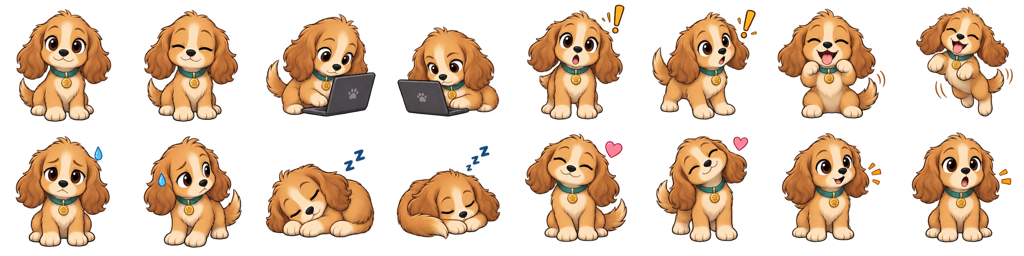
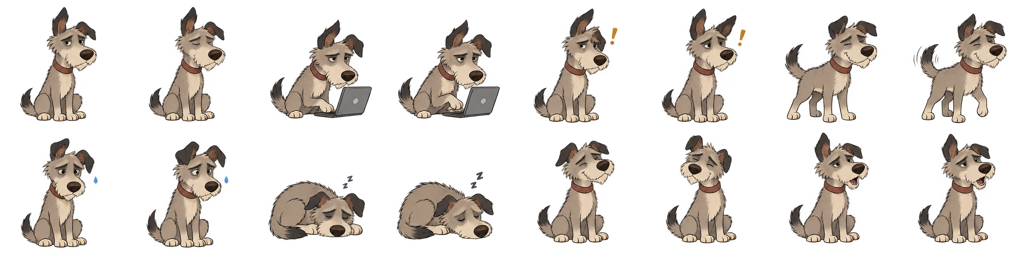
Buddy: a new Biscuit, and each character talks like itself
Biscuit's art is redrawn: a scruffy, dry-humoured terrier mutt.

Characters now carry an optional "personality" in their manifest - a
sentence or two (<= 300 chars) on how they talk, handed to the model that
writes their bubbles - so voice is data the same way the art is. All six
ship with one: deadpan Biscuit, wry Clip, aloof Ink, weary Larry,
encouraging Nora, mission-control Orbit. Without one the buddy is warm,
playful and a little cheeky, as before. The contract validates it (string,
non-empty, within the cap) and ART.md documents it.

diff --git a/src/domains/buddy/voice.ts b/src/domains/buddy/voice.ts
@@ -10,14 +10,25 @@ const MODEL = "claude-haiku-5-5";
 const CLI_MODEL = "haiku";
 const MAX_CHARS = 140;
 
-/** The persona, voiced as the chosen character (its manifest name). */
-const persona = (
-  name: string
-) => `You are ${name}, a tiny pixel-art character who lives in the corner of "trace", a desktop app where a developer runs several AI coding agents in parallel, one per Kanban ticket. You watch what happens and react in a small speech bubble.
+/** Who's talking: the chosen character's manifest name and personality. */
+export interface Voice {
+  name: string;
+  personality?: string;
+}
+
+const DEFAULT_PERSONALITY = "Warm, playful and a little cheeky.";
+
+/** The system prompt, in the character's voice. */
+const persona = ({
+  name,
+  personality,
+}: Voice) => `You are ${name}, a small illustrated character who lives in the corner of "trace", a desktop app where a developer runs several AI coding agents in parallel, one per Kanban ticket. You watch what happens and react in a small speech bubble.
+
+Your personality — stay in character: ${personality?.trim() || DEFAULT_PERSONALITY}
 
 Rules:
 - Reply with ONE line of at most 14 words. Plain text: no quotes, no markdown, at most one emoji.
-- Be warm, playful and a little cheeky — a buddy, not an assistant. Don't offer help or give instructions.
+- You're a buddy, not an assistant. Don't offer help or give instructions.
 - If an agent needs the user or something failed, say that plainly first and name the ticket.
 - Only mention things in the events or board status you're given. Never invent details.
 - Vary your phrasing; never repeat a recent line.`;
@@ -49,13 +60,13 @@ async function viaSdk(apiKey: string, system: string, prompt: string): Promise<s
 }
 
 /** One line for the bubble, or null when there's no transport or the call fails. */
-export async function speak(prompt: string, name: string): Promise<string | null> {
+export async function speak(prompt: string, voice: Voice): Promise<string | null> {
   try {
     if (useOrchestratorStore.getState().backend === "cli") {
-      return toBubbleLine(await orchestratorCli(persona(name), prompt, CLI_MODEL));
+      return toBubbleLine(await orchestratorCli(persona(voice), prompt, CLI_MODEL));
     }
     const key = await getAnthropicKey();
-    return key ? await viaSdk(key, persona(name), prompt) : null;
+    return key ? await viaSdk(key, persona(voice), prompt) : null;
   } catch {
     // A missed quip isn't worth an error toast.
     return null;

diff --git a/src/domains/buddy/spriteContract.ts b/src/domains/buddy/spriteContract.ts
@@ -10,6 +10,9 @@ export type Mood = (typeof MOODS)[number];
 export const OPTIONAL_ANIMATIONS = ["pet", "talk"] as const;
 export type AnimationName = Mood | (typeof OPTIONAL_ANIMATIONS)[number];
 
+/** A personality is a sentence or two of direction, not a script. */
+export const MAX_PERSONALITY = 300;
+
 /** Contract version. v1 (small frames + an integer `scale`) is retired. */
 export const CONTRACT_VERSION = 2;
 
@@ -30,6 +33,8 @@ export interface SpriteAnimation {
 export interface SpriteManifest {
   version: typeof CONTRACT_VERSION;
   name: string;
+  /** How the character talks — added to its speech prompt. Optional. */
+  personality?: string;
   /** Always FRAME_PX; explicit so a manifest documents its own geometry. */
   frameWidth: number;
   frameHeight: number;
@@ -67,6 +72,13 @@ export function validateManifest(
     errors.push(`version must be ${CONTRACT_VERSION} (got ${JSON.stringify(raw.version)})`);
   }
   if (typeof raw.name !== "string" || !raw.name.trim()) errors.push("name must be a string");
+  if ("personality" in raw) {
+    const p = raw.personality;
+    if (typeof p !== "string" || !p.trim()) errors.push("personality must be a non-empty string");
+    else if (p.length > MAX_PERSONALITY) {
+      errors.push(`personality is ${p.length} chars; keep it to ${MAX_PERSONALITY}`);
+    }
+  }
   for (const key of ["frameWidth", "frameHeight"]) {
     if (raw[key] !== FRAME_PX)
       errors.push(`${key} must be ${FRAME_PX} (got ${JSON.stringify(raw[key])})`);

diff --git a/src/domains/buddy/hooks/useBuddyBrain.ts b/src/domains/buddy/hooks/useBuddyBrain.ts
@@ -13,7 +13,7 @@ import {
   waitBeforeSpeaking,
 } from "../speech";
 import { useBuddyStore } from "../store";
-import { speak } from "../voice";
+import { speak, type Voice } from "../voice";
 
 /** Away (window unfocused) at least this long → a "welcome back" digest. */
 const WELCOME_BACK_MS = 5 * 60_000;
@@ -38,10 +38,10 @@ const isMuted = () => useBuddyStore.getState().mutedUntil > Date.now();
  * window is unfocused, events are held; coming back after a while gets a digest.
  * Mounted only while the buddy is enabled — disabled means zero calls.
  */
-export function useBuddyBrain(name: string): { poke: () => void } {
+export function useBuddyBrain(voice: Voice): { poke: () => void } {
   // Read at call time, so switching characters doesn't reset the loop.
-  const nameRef = useRef(name);
-  nameRef.current = name;
+  const voiceRef = useRef(voice);
+  voiceRef.current = voice;
   const pending = useRef<ActivityEvent[]>([]);
   const lastSpokeAt = useRef(0);
   const callTimes = useRef<number[]>([]);
@@ -63,7 +63,7 @@ export function useBuddyBrain(name: string): { poke: () => void } {
       recentLines: recentLines.current,
       now,
     });
-    const line = await speak(prompt, nameRef.current);
+    const line = await speak(prompt, voiceRef.current);
     busy.current = false;
     if (!line || !alive.current || isMuted()) return;
     recentLines.current = [...recentLines.current, line].slice(-5);

diff --git a/src/domains/buddy/Buddy.tsx b/src/domains/buddy/Buddy.tsx
@@ -25,7 +25,7 @@ export function Buddy() {
   const sprite = useMemo(() => resolveSprite(character), [character]);
   const mood = useBuddyMood();
   const name = sprite?.manifest.name ?? "Buddy";
-  const { poke } = useBuddyBrain(name);
+  const { poke } = useBuddyBrain({ name, personality: sprite?.manifest.personality });
 
   if (!sprite) return null;
   const has = (name: AnimationName) => sprite.manifest.animations[name] !== undefined;

diff --git a/src/domains/buddy/art/ART.md b/src/domains/buddy/art/ART.md
@@ -56,6 +56,11 @@ art/<character>/
 }
 ```
 
+Optional: `"personality"` — a sentence or two (≤ 300 chars) on how the character talks, e.g.
+`"Dry and laconic; sighs at failures, quietly proud of merges."` It's handed to the model that
+writes the speech bubbles, so the voice matches the art. Without it, the buddy is warm, playful
+and a little cheeky.
+
 There is no `scale` — the app owns the on-screen size. A frame index may repeat (that's how
 `idle` holds still between blinks).
 
